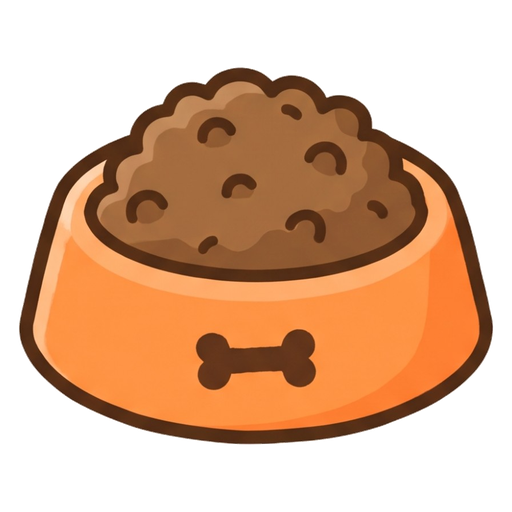
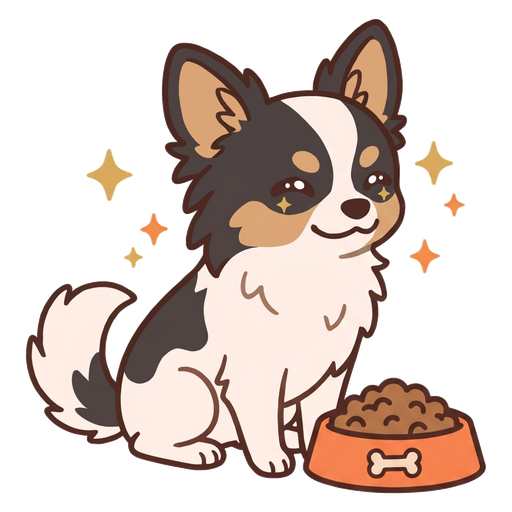
Button art: Ohagi scenes for pee, poop, water and food

diff --git a/apple/Shared/Theme.swift b/apple/Shared/Theme.swift
@@ -96,7 +96,7 @@ struct KindIcon: View {
     var body: some View {
         if let image = UIImage(named: "kind_\(kind.rawValue)") {
             Image(uiImage: image).resizable().scaledToFit()
-                .frame(width: size * 1.05, height: size * 1.05)
+                .frame(width: size * 1.2, height: size * 1.2) // the scene art has empty corners, so it can be a bit bigger than the inscribed square
                 .frame(width: size * 1.5, height: size * 1.5)
                 .background(Circle().fill(.white))
         } else {

diff --git a/docs/decisions.md b/docs/decisions.md
@@ -60,3 +60,4 @@
 - **ボタンの表現**：「手首でうんち・おしっこがそのまま見えるのはアウト」「絵もリアル」。
   - Watch のボタンは**絵だけ（文字なし）**、iPhone は絵の下に小さく文字。文字盤・一覧・Watch の印は 💩💦 をやめ、🟤🟡（文字盤は ●・しずく）に。
   - ボタンの絵は **おはぎが主役の場面**に描き直す（おしっこ＝電柱をくんくん、うんち＝すっきり顔でおすわり、横にスコップとマナー袋（犬は袋にさわらない）、おみず＝水を飲む、ごはん＝お皿の前でおすわり）。うんち・しずくそのものは描かない。`docs/art/buttons.md` を改訂、Gemini で作成待ち。
+  - 4枚とも採用（2026-11-17）：うんちの絵の描き方にそろえた。以前のしずく SVG などは削除。

diff --git a/docs/asset-licenses.md b/docs/asset-licenses.md
@@ -13,4 +13,4 @@
 | ボタンの絵：ごはん（ドッグフードのお皿、骨のマーク） | `assets/kinds/food.png` | 同上 | おはぎきなこ工房（Gemini で生成） | 同上 | 不要 | 2026-11-17 |
 
 ## ボタンの絵（おはぎの場面、2026-11-17〜）
-- `assets/kinds/poop.png`：Gemini で工房が作成（元画像 `docs/art/buttons/poop_gemini.jpg`、見本は工房のおはぎ）。`tools/prepare_kind_art.py` で白背景を抜いて 512px。工房の素材として公開・アプリ内利用可。
+- `assets/kinds/{pee,poop,water,food}.png`：Gemini で工房が作成（元画像 `docs/art/buttons/<種類>_gemini.jpg`、見本は工房のおはぎ）。`tools/prepare_kind_art.py` で白背景を抜いて 512px。工房の素材として公開・アプリ内利用可。
